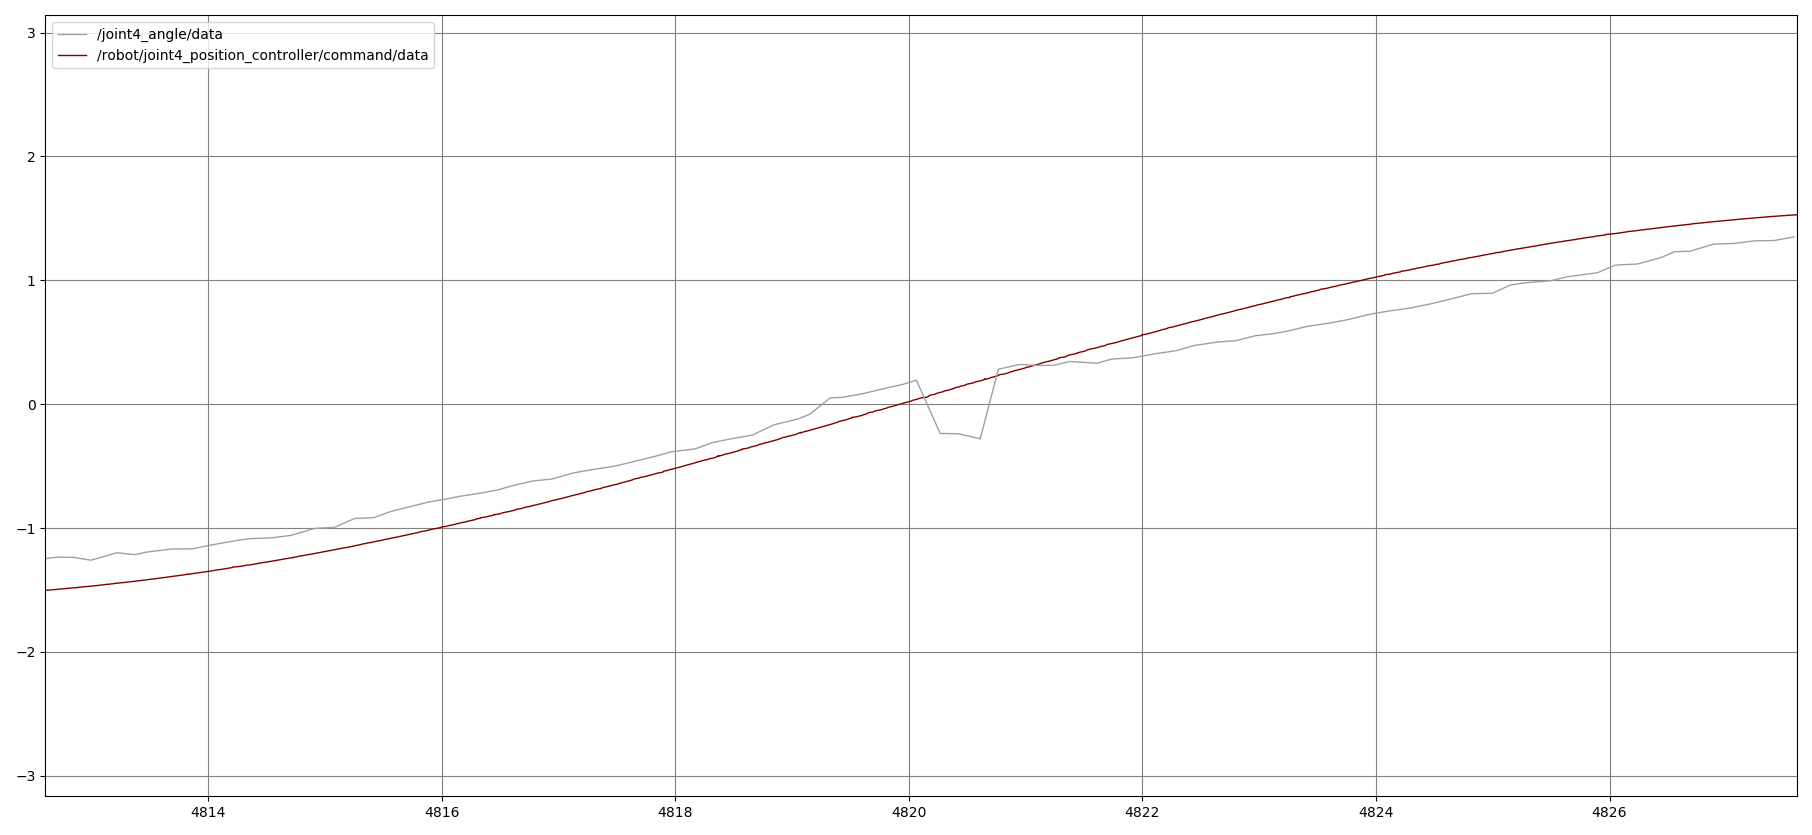
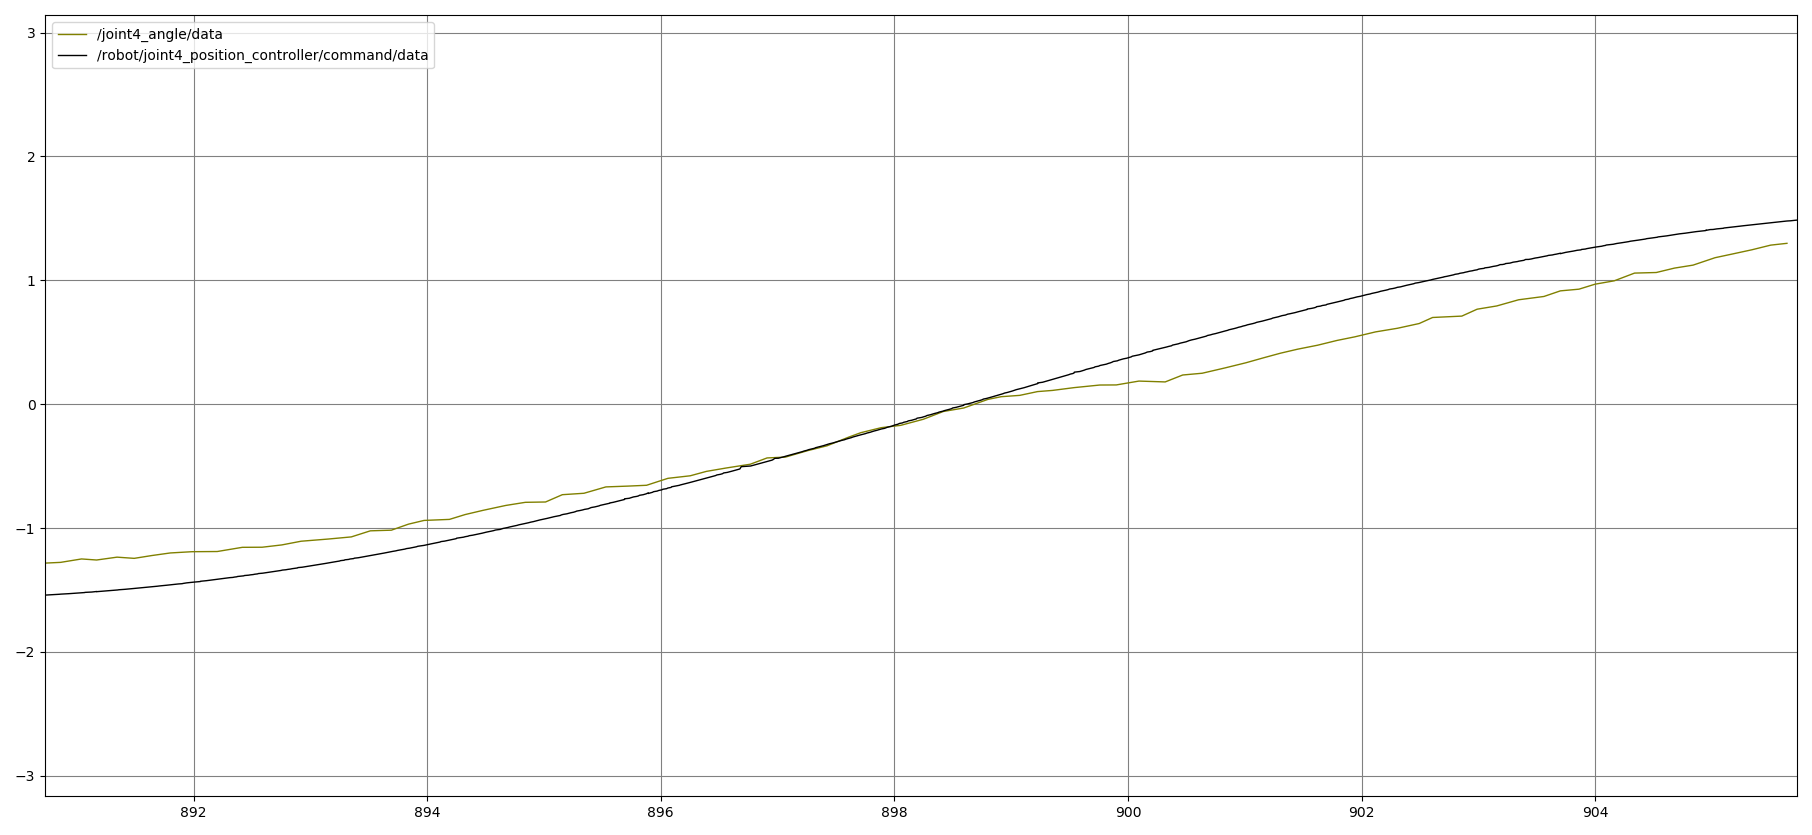
update image vision_1 update

diff --git a/src/vision_1.py b/src/vision_1.py
@@ -52,8 +52,6 @@ class image_converter:
         self.centre_green_detect = np.array([399, 399, 543])
         self.centre_yellow_detect = np.array([399, 399, 430])
 
-        self.last_joint_4 = 0
-
     # find the centre of the green joint
     def detect_green(self, img):
         # create a green mask
@@ -208,12 +206,12 @@ class image_converter:
         centre_yellow = np.array([0, 0, 113])
         centre_blue, centre_red = self.get_joint_centre()
 
-        # calculate joint 1 & 3 & 4
+        # calculate joint 2 & 3 & 4
 
         yellow_blue_link = centre_blue - centre_yellow
         blue_red_link = centre_red - centre_blue
 
-        x_transformed = np.cross(yellow_blue_link, y)
+        x_transformed = np.cross(y, yellow_blue_link)
         joint2 = self.get_vector_angle(x_transformed, x)
         if (joint2 > np.pi / 2):
             joint2 = np.pi - joint2
@@ -224,45 +222,10 @@ class image_converter:
 
         joint4 = self.get_vector_angle(yellow_blue_link, blue_red_link)
 
-        # project blue_red_link into yellow_blue_link, then compare the z value of blue_red_link depends on the axis.
-        # projection = (np.dot(blue_red_link, yellow_blue_link) / self.get_vector_length(yellow_blue_link) ** 2) * yellow_blue_link
-        # if ((blue_red_link[0] > 0) and (blue_red_link[1] > 0)):
-        #     if(projection[2] < blue_red_link[2]):
-        #         joint4 *= -1
-        # elif ((blue_red_link[0] < 0) and (blue_red_link[1] > 0)):
-        #     if (projection[2] > blue_red_link[2]):
-        #         joint4 *= -1
-        # elif ((blue_red_link[0] > 0) and (blue_red_link[1] < 0)):
-        #     if (projection[2] < blue_red_link[2]):
-        #         joint4 *= -1
-        # else:
-        #     if(projection[2] > blue_red_link[2]):
-        #         joint4 *= -1
-
-        # projection_scale = (np.dot(blue_red_link, x_transformed) / self.get_vector_length(x_transformed) ** 2)
-        # projection = np.zeros(3)
-        # for i in range(3):
-        #     projection[i] = projection_scale * x_transformed[i]
-        # angle_projection_x_trans = self.get_vector_angle(projection, x_transformed)
-
         projection = np.dot(blue_red_link, x_transformed)
 
         if (projection < 0):
             joint4 *= -1
-        #
-        # if (angle_projection_x_trans == np.pi):
-        #     joint4 *= -1
-
-        print(projection > 0)
-
-        # if (self.last_joint_4 == 0):
-        #     self.last_joint_4 = joint4
-        #
-        # if (np.absolute(joint4)>0.5):
-        #     if (np.absolute((joint4 - self.last_joint_4)) > np.absolute((-joint4 - self.last_joint_4))):
-        #         joint4 *= -1
-
-        self.last_joint_4 = joint4
 
         return np.array([joint2, joint3, joint4])
 
